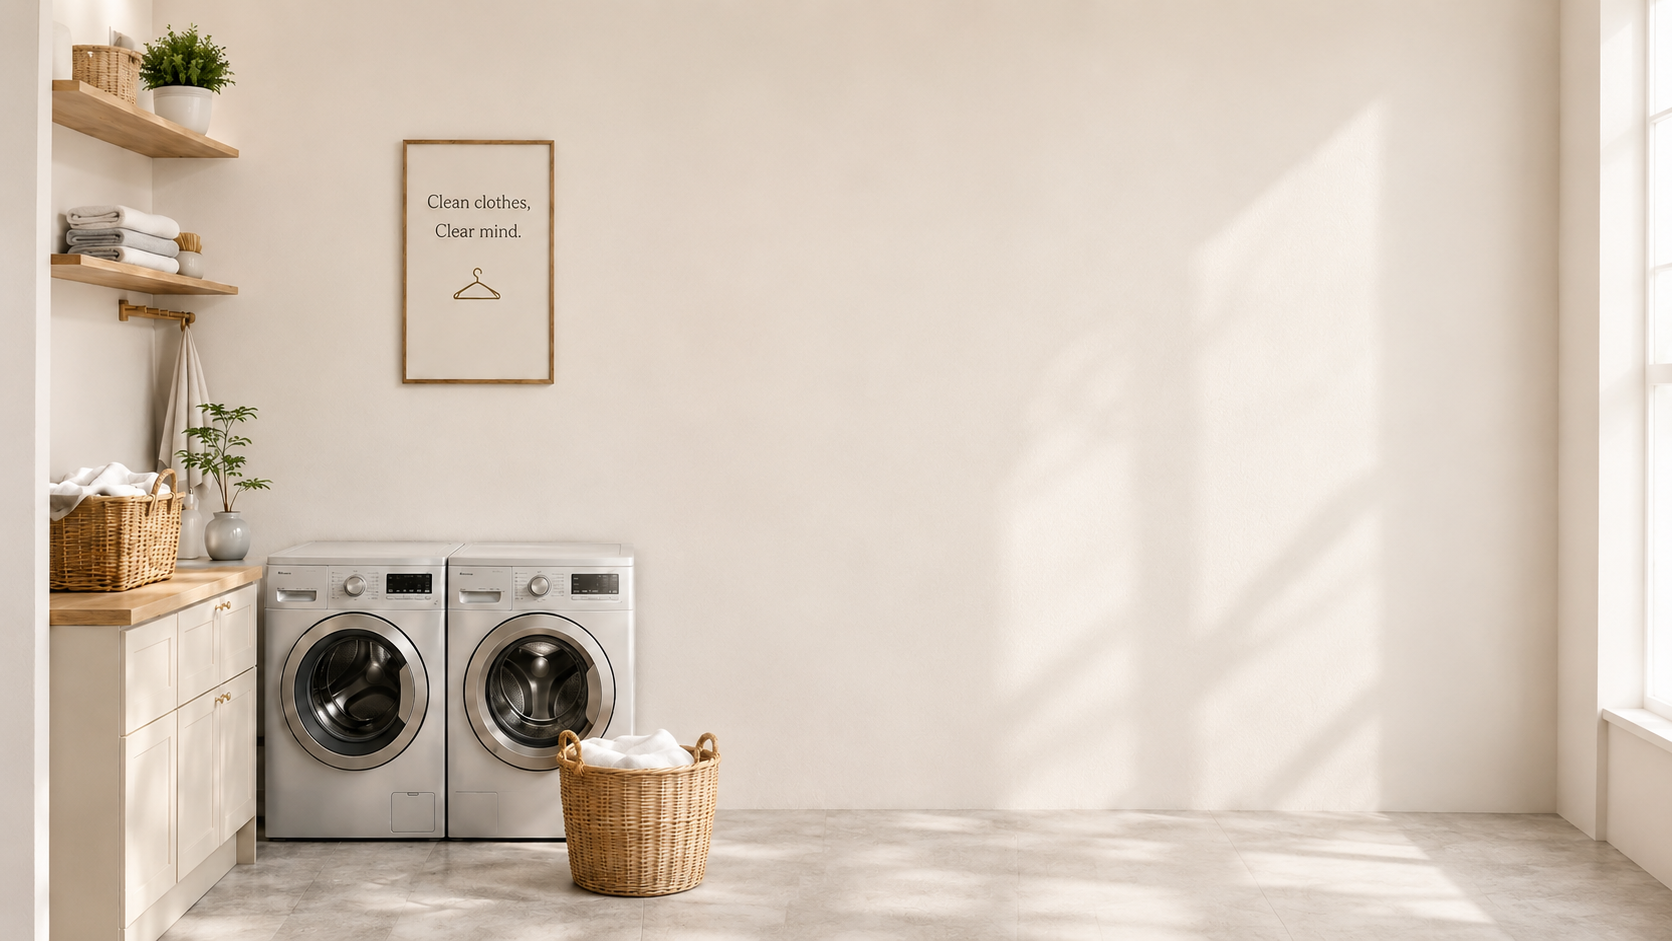
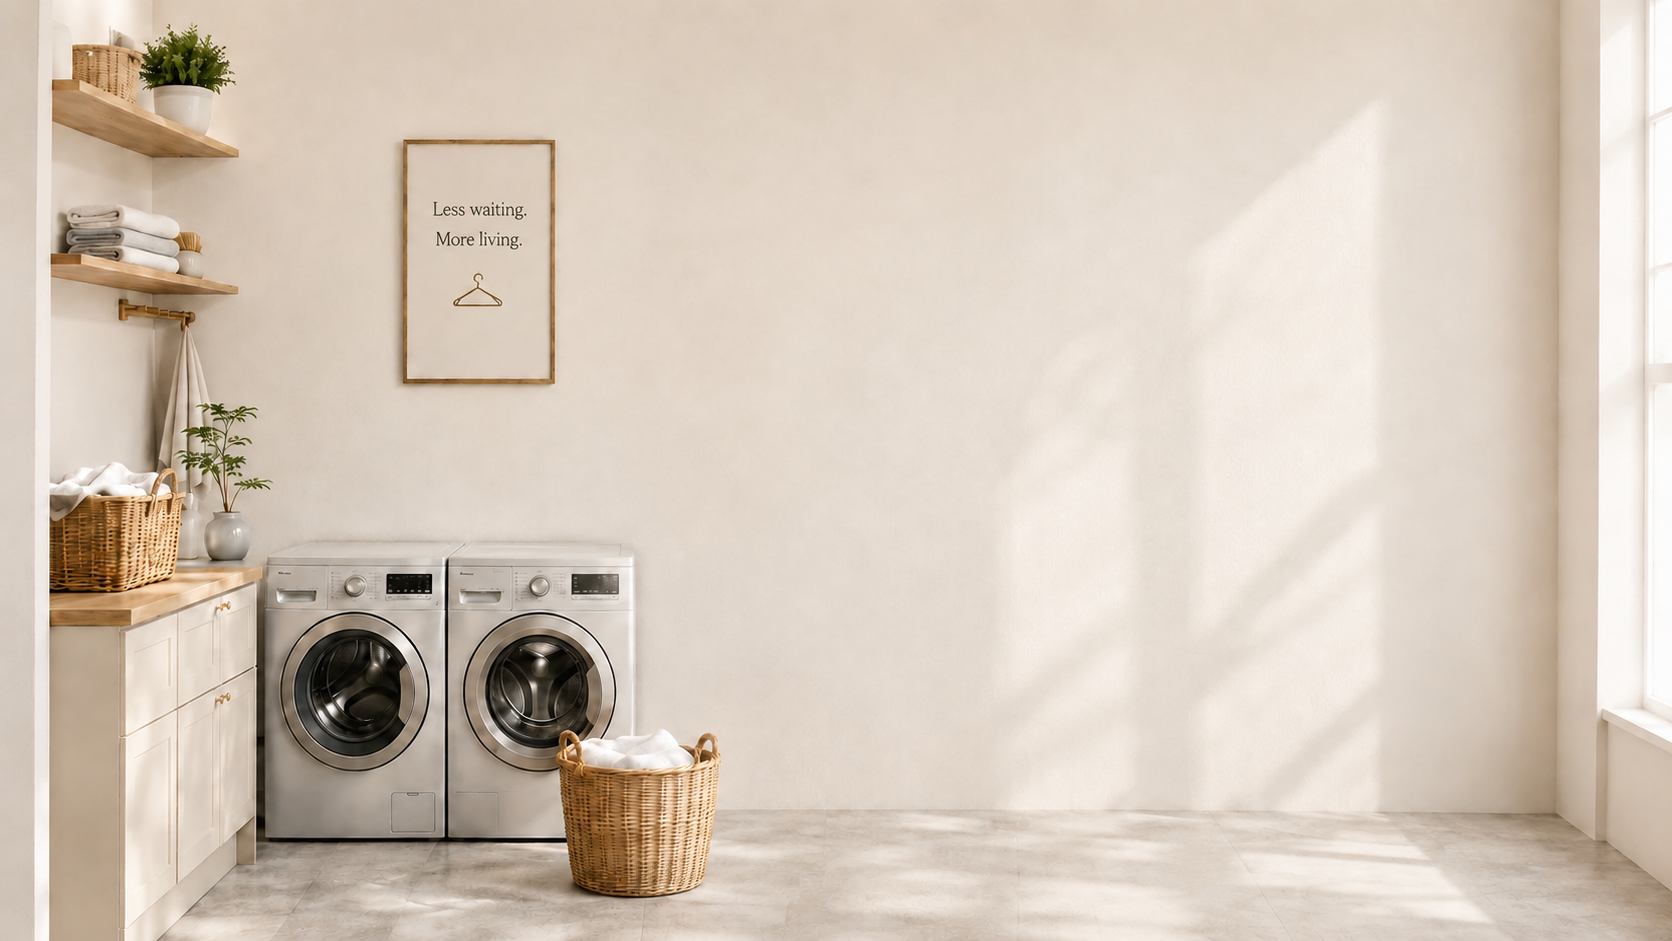
Redesign About page with warm theme, full feature showcase, and personal footer

diff --git a/frontend/src/pages/About.jsx b/frontend/src/pages/About.jsx
@@ -1,5 +1,8 @@
 import Navbar from '../components/Navbar'
-import { Activity, Users, ShieldCheck, TrendingUp } from 'lucide-react'
+import {
+  Activity, Users, ShieldCheck, TrendingUp, Clock, RefreshCw,
+  QrCode, Layers, Bell, Lock,
+} from 'lucide-react'
 
 export default function About() {
   const architecture = ['React', 'Node.js', 'Socket.io', 'Redis', 'PostgreSQL']
@@ -14,46 +17,51 @@ export default function About() {
   ]
 
   const highlights = [
-    { icon: Activity, title: 'Real-time Updates', desc: 'Live machine status and instant notifications' },
-    { icon: Users, title: 'Smart Queue', desc: 'Join a queue and get notified when it\'s your turn' },
-    { icon: ShieldCheck, title: 'Secure & Reliable', desc: 'JWT authentication and secure data handling' },
-    { icon: TrendingUp, title: 'Scalable System', desc: 'Async job queue built for concurrent load' },
+    { icon: Activity, title: 'Real-time Updates', desc: 'Live machine status pushed instantly via WebSockets' },
+    { icon: Users, title: 'Global Fair Queue', desc: 'One position-based waitlist, served first-come-first-served' },
+    { icon: ShieldCheck, title: 'Deadlock-free', desc: 'Eligible-user logic skips blocked people so the queue never stalls' },
+    { icon: TrendingUp, title: 'Async Job Queue', desc: 'BullMQ + Redis handle timers and notifications under load' },
   ]
 
   const features = [
-    ['Machine Status', 'Check real-time status of all machines'],
-    ['Queue System', 'Join a queue and see your position'],
-    ['Confirmations', 'Get notified and confirm your turn'],
-    ['Real-time Alerts', 'Get notified before your wash ends'],
-    ['Admin Panel', 'Manage machines and students easily'],
+    { icon: Activity, title: 'Live Machine Status', desc: 'Real-time status of every machine with progress and time remaining' },
+    { icon: Users, title: 'Global Waitlist', desc: 'Join one queue and see your live position for the next free machine' },
+    { icon: Bell, title: 'Two-phase Timeout', desc: '5 minutes to confirm an offer, then 3 minutes to start your wash' },
+    { icon: RefreshCw, title: 'Auto Re-allocation', desc: 'If you miss the window, the machine passes to the next eligible person' },
+    { icon: Clock, title: 'Wash Timers & Alerts', desc: 'Countdown timers with a 5-minute warning before your wash ends' },
+    { icon: Layers, title: 'Dead Letter Queue', desc: 'Failed jobs retry with exponential backoff, then move to a DLQ' },
+    { icon: Lock, title: 'Roles & Limits', desc: 'Admin/student roles, JWT-secured actions, 2-machine-per-user cap' },
+    { icon: QrCode, title: 'QR Deep-links', desc: 'Each machine has a QR code that opens its page for quick access' },
   ]
 
   return (
-    <div className="min-h-screen bg-slate-50">
+    <div className="min-h-screen bg-cream">
       <Navbar />
 
       <div className="max-w-5xl mx-auto px-6 py-8 space-y-8">
         {/* Heading */}
         <div>
           <h1 className="font-serif text-3xl font-bold text-navy mb-1">About Ocupado</h1>
-          <p className="text-slate-500">A real-time laundry management system for students.</p>
+          <p className="text-slate-600">A real-time laundry queue management system for hostels.</p>
         </div>
 
-        {/* Project Overview */}
-        <div className="bg-white rounded-2xl shadow-sm border border-slate-200 p-6 grid grid-cols-1 md:grid-cols-2 gap-6">
+        {/* Project Overview + highlights */}
+        <div className="bg-white rounded-2xl border border-cream-dark p-6 grid grid-cols-1 md:grid-cols-2 gap-6 shadow-[0_12px_35px_rgba(0,0,0,0.06)]">
           <div>
             <h2 className="font-serif text-xl font-bold text-navy mb-3">Project Overview</h2>
             <p className="text-slate-600 text-sm leading-relaxed">
-              Ocupado helps students find and use laundry machines in real time. It shows live
-              machine status, lets users join queues, sends notifications when a machine frees up,
-              and manages fair one-by-one allocation using an asynchronous job queue.
+              Ocupado eliminates wasted trips to the laundry room. It shows live machine
+              availability, lets students join a single global queue, and fairly allocates the
+              next free machine using an asynchronous job queue. When a machine frees up, the
+              system offers it to the next eligible person, gives them a timed window to confirm
+              and start, and automatically passes it along if they don't — all in real time.
             </p>
           </div>
           <div className="grid grid-cols-1 sm:grid-cols-2 gap-4">
             {highlights.map((h) => (
               <div key={h.title} className="flex gap-3">
-                <div className="w-10 h-10 rounded-lg bg-slate-100 flex items-center justify-center shrink-0">
-                  <h.icon className="w-5 h-5 text-navy" />
+                <div className="w-10 h-10 rounded-lg bg-cream flex items-center justify-center shrink-0">
+                  <h.icon className="w-5 h-5 text-warm" />
                 </div>
                 <div>
                   <p className="font-semibold text-navy text-sm">{h.title}</p>
@@ -67,33 +75,36 @@ export default function About() {
         {/* Architecture + Tech Stack */}
         <div className="grid grid-cols-1 lg:grid-cols-3 gap-6">
           {/* Architecture */}
-          <div className="lg:col-span-2 bg-white rounded-2xl shadow-sm border border-slate-200 p-6">
+          <div className="lg:col-span-2 bg-white rounded-2xl border border-cream-dark p-6 shadow-[0_12px_35px_rgba(0,0,0,0.06)]">
             <h2 className="font-serif text-xl font-bold text-navy mb-5">System Architecture</h2>
             <div className="flex flex-wrap items-center gap-2">
               {architecture.map((tech, i) => (
                 <div key={tech} className="flex items-center gap-2">
-                  <div className="bg-slate-50 border border-slate-200 rounded-xl px-4 py-3 text-sm font-semibold text-navy">
+                  <div className="bg-cream border border-cream-dark rounded-xl px-4 py-3 text-sm font-semibold text-navy">
                     {tech}
                   </div>
-                  {i < architecture.length - 1 && <span className="text-slate-400">→</span>}
+                  {i < architecture.length - 1 && <span className="text-warm">→</span>}
                 </div>
               ))}
             </div>
             <div className="mt-4 inline-block bg-navy text-white rounded-xl px-4 py-3 text-sm font-semibold">
-              BullMQ — Queue Management
+              BullMQ — Background Job Processing
             </div>
-            <p className="text-slate-500 text-xs mt-3">
-              Requests hit the Node API; heavy work (waitlist notifications, timers) is offloaded to
-              BullMQ background workers backed by Redis, keeping responses fast.
+            <p className="text-slate-600 text-xs mt-3 leading-relaxed">
+              The React client talks to a Node/Express API over REST and receives live updates over
+              Socket.io. Time-based work — waitlist offers, confirm/start timeouts, auto-release, and
+              wash-end warnings — is offloaded to BullMQ workers backed by Redis, so the API stays
+              fast and the timers survive restarts. Failed jobs retry with exponential backoff and
+              land in a Dead Letter Queue for inspection.
             </p>
           </div>
 
           {/* Tech Stack */}
-          <div className="bg-white rounded-2xl shadow-sm border border-slate-200 p-6">
+          <div className="bg-white rounded-2xl border border-cream-dark p-6 shadow-[0_12px_35px_rgba(0,0,0,0.06)]">
             <h2 className="font-serif text-xl font-bold text-navy mb-5">Tech Stack</h2>
             <div className="space-y-3">
               {techStack.map(([label, value]) => (
-                <div key={label} className="flex justify-between text-sm">
+                <div key={label} className="flex justify-between text-sm gap-2">
                   <span className="font-semibold text-navy">{label}</span>
                   <span className="text-slate-500 text-right">{value}</span>
                 </div>
@@ -103,20 +114,23 @@ export default function About() {
         </div>
 
         {/* Key Features */}
-        <div className="bg-white rounded-2xl shadow-sm border border-slate-200 p-6">
+        <div className="bg-white rounded-2xl border border-cream-dark p-6 shadow-[0_12px_35px_rgba(0,0,0,0.06)]">
           <h2 className="font-serif text-xl font-bold text-navy mb-5">Key Features</h2>
-          <div className="grid grid-cols-1 sm:grid-cols-2 lg:grid-cols-3 gap-4">
-            {features.map(([title, desc]) => (
-              <div key={title} className="border border-slate-200 rounded-xl p-4">
-                <p className="font-semibold text-navy text-sm mb-1">{title}</p>
-                <p className="text-slate-500 text-xs">{desc}</p>
+          <div className="grid grid-cols-1 sm:grid-cols-2 lg:grid-cols-4 gap-4">
+            {features.map((f) => (
+              <div key={f.title} className="border border-cream-dark rounded-xl p-4 hover:shadow-md transition">
+                <div className="w-9 h-9 rounded-lg bg-cream flex items-center justify-center mb-2">
+                  <f.icon className="w-5 h-5 text-warm" />
+                </div>
+                <p className="font-semibold text-navy text-sm mb-1">{f.title}</p>
+                <p className="text-slate-500 text-xs leading-relaxed">{f.desc}</p>
               </div>
             ))}
           </div>
         </div>
 
         <p className="text-center text-slate-400 text-xs">
-          © 2025 Ocupado. Built for students.
+          © 2026 Ocupado. Built by Ishita.
         </p>
       </div>
     </div>
